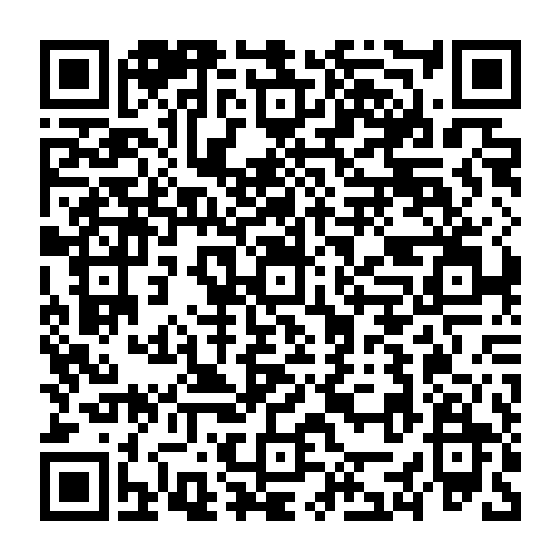
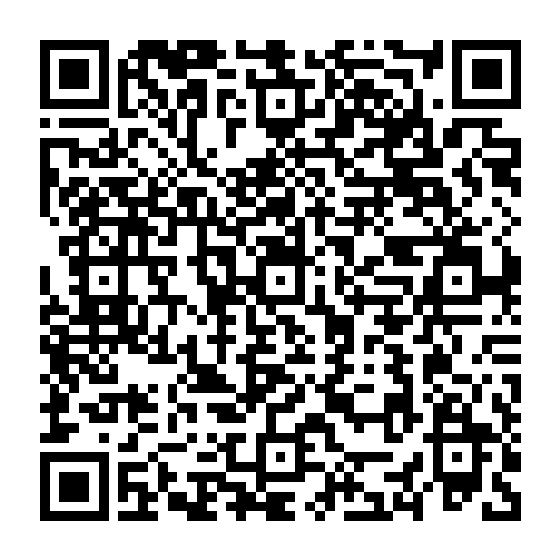
fix(staff): update guard app download badges and qr code to v1.0.20 Build 21

diff --git a/web/staff/login.html b/web/staff/login.html
@@ -64,8 +64,8 @@
       </div>
 
       <section class="guard-download-card" id="guard-app" aria-labelledby="guardAppTitle">
-        <a class="qr-frame" href="https://security-agency-management-system-download.vercel.app/downloads/security-agency-management-system-guard.apk?v=1.0.18" download="Security-Agency-Management-System-Guard-v1.0.18.apk" aria-label="Download the Android Guard app directly">
-          <img src="./guard-app-qr.png?v=apk-1.0.18" width="560" height="560" alt="Scan to download the Android Guard app APK directly">
+        <a class="qr-frame" href="https://security-agency-management-system-download.vercel.app/downloads/security-agency-management-system-guard.apk?v=1.0.20" download="Security-Agency-Management-System-Guard-v1.0.20.apk" aria-label="Download the Android Guard app directly">
+          <img src="./guard-app-qr.png?v=apk-1.0.20" width="560" height="560" alt="Scan to download the Android Guard app APK directly">
           <span class="qr-corners" aria-hidden="true"></span>
         </a>
         <div class="guard-download-copy">
@@ -73,7 +73,7 @@
           <h2 id="guardAppTitle">Scan. Install. Report for duty.</h2>
           <p>Scan to download the Android app directly.</p>
           <div class="download-meta" aria-label="App details">
-            <span>Android</span><span>v1.0.18</span><span>Build 19</span>
+            <span>Android</span><span>v1.0.20</span><span>Build 21</span>
           </div>
           <a class="download-link" href="./app-download.html" data-guard-app-setup aria-haspopup="dialog">
             <span class="material-symbols-rounded" aria-hidden="true">download</span>
@@ -152,10 +152,10 @@
   <section class="sl-guard-app" aria-label="Android installation">
     <div class="sl-guard-app-summary">
       <span class="sl-guard-app-icon material-symbols-rounded" aria-hidden="true">android</span>
-      <div><h3>Guard mobile app</h3><p>Android 7+ · v1.0.18 · Build 19</p></div>
+      <div><h3>Guard mobile app</h3><p>Android 7+ · v1.0.20 · Build 21</p></div>
     </div>
     <p id="deviceMessage" class="sl-guard-app-message">Download the APK and open it on your Android phone.</p>
-    <a id="androidDownload" class="sl-guard-download" href="https://security-agency-management-system-download.vercel.app/downloads/security-agency-management-system-guard.apk?v=1.0.18" download="Security-Agency-Management-System-Guard-v1.0.18.apk">
+    <a id="androidDownload" class="sl-guard-download" href="https://security-agency-management-system-download.vercel.app/downloads/security-agency-management-system-guard.apk?v=1.0.20" download="Security-Agency-Management-System-Guard-v1.0.20.apk">
       <span class="material-symbols-rounded" aria-hidden="true">download</span>
       <span>Download for Android</span>
     </a>
